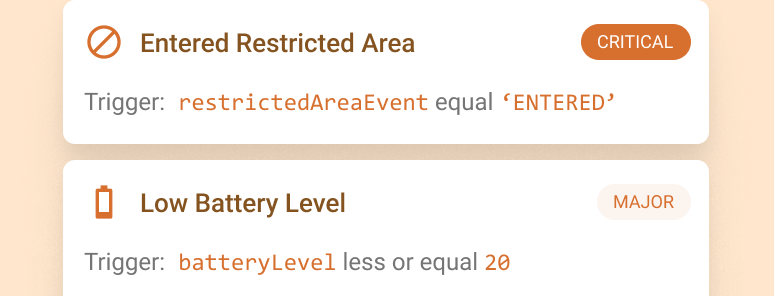
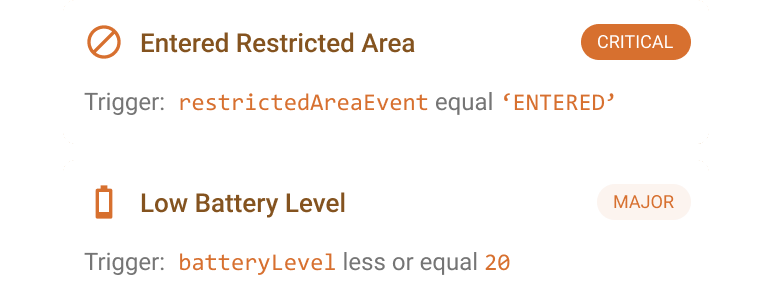
fix(iot-hub): minor bug fixes and SEO improvements (#478)
* fix(iot-hub): dark-theme issues on device detail page

- Preserve the install/connect CTA hover overlay in dark mode by using
  background-color instead of the background shorthand (the shorthand reset
  the button-primary background-image hover gradient).
- Make the alarm-rules category image background transparent so it renders
  correctly on the dark theme.

* feat(iot-hub): category-aware Creator CTA + How to contribute link

- CreatorCTA takes a category prop and derives its title, description, and
  guide link from the category config (defaults to the generic copy on the
  hub landing).
- Devices category shows "Add your device" copy.
- Add a secondary outlined "How to contribute" button linking to the matching
  /docs/iot-hub/guides/ guide per category.
- Add guideHref to every IoT Hub category config.

* feat(iot-hub): per-page SEO titles, descriptions, and heading structure

- Category pages: heroTitle (H1 + <title>) distinct from tileLabel, per-category
  seoDescription for the meta description, category-aware Creator CTA copy.
- Detail pages: templated title/description per item type (Connect ... for
  devices, Install ... {type} for other components) with name-bearing fallbacks.
- Creator pages: SEO description enumerating the creator's component categories;
  'Verified creator profile' only when actually verified.
- Hero subtitle promoted to <h2> (visually unchanged) with a trailing
  'for IoT solutions' line; 'Most popular' demoted to a div.
[…]

Changed region(s): [[0.0, 0.0, 1.0, 1.0]]

diff --git a/src/models/iot-hub.ts b/src/models/iot-hub.ts
@@ -28,68 +28,97 @@ export const IOT_HUB_CATEGORIES = [
 	{
 		slug: 'devices',
 		itemType: 'DEVICE',
-		label: 'Devices',
+		label: 'IoT Devices',
+		singularLabel: 'Device',
 		tileLabel: 'Device Library',
+		heroTitle: 'IoT Device Library',
 		card: 'big',
 		tileColor: '#ccd5ff',
 		tileColorDark: '#4c63cc',
 		heroDescription:
 			'Explore the device library to find pre-configured connectivity templates you can deploy in minutes to connect your hardware instantly.',
+		seoDescription:
+			'Connect your hardware in one step. Install ready-made IoT device profiles for MQTT, Modbus, and OPC UA from the ThingsBoard IoT Hub.',
+		guideHref: '/docs/iot-hub/guides/device/',
+		ctaTitle: 'Add your device',
+		ctaDescription:
+			'Submit your devices to the ThingsBoard IoT Hub to showcase them to our global community and make it way easier for your clients.',
 	},
 	{
 		slug: 'solution-templates',
 		itemType: 'SOLUTION_TEMPLATE',
 		label: 'Solution Templates',
+		singularLabel: 'Solution Template',
 		tileLabel: 'Solution Templates',
+		heroTitle: 'IoT Solution Templates',
 		card: 'big',
 		tileColor: '#b8d9ff',
 		tileColorDark: '#2c6cb4',
 		heroDescription:
 			'Complete IoT solution packages with dashboards, rule chains, and device configurations. Get started with proven architectures.',
+		seoDescription:
+			'Start from a working solution. Install ready-made IoT solution templates for retail, fleet, energy, and SCADA from the ThingsBoard IoT Hub.',
+		guideHref: '/docs/iot-hub/guides/solution-template/',
 	},
 	{
 		slug: 'widgets',
 		itemType: 'WIDGET',
 		label: 'Widgets',
+		singularLabel: 'Widget',
 		tileLabel: 'Widgets',
 		card: 'big',
 		tileColor: '#a3ffc3',
 		tileColorDark: '#2c9755',
 		heroDescription:
 			'Jumpstart your IoT journey with pre-configured widgets designed for your industry. Deploy proven architectures instantly and focus your energy on what matters: your unique business logic.',
+		seoDescription:
+			'Build dashboards faster with ready-to-use IoT widgets. Install charts, gauges, maps, and control cards from the ThingsBoard IoT Hub.',
+		guideHref: '/docs/iot-hub/guides/widget/',
 	},
 	{
 		slug: 'calculated-fields',
 		itemType: 'CALCULATED_FIELD',
 		label: 'Calculated Fields',
+		singularLabel: 'Calculated Field',
 		tileLabel: 'Calculated Fields',
 		card: 'small',
 		tileColor: '#bdedff',
 		tileColorDark: '#3db5e0',
 		heroDescription:
 			'Use pre-configured Calculated Fields to automate complex metrics like fuel efficiency or power factor. Skip the manual logic and keep your dashboards clean and actionable.',
+		seoDescription:
+			'Compute metrics automatically. Install ready-made IoT calculated fields for fuel efficiency, power factor, aggregations, and geofencing from the ThingsBoard IoT Hub.',
+		guideHref: '/docs/iot-hub/guides/calculated-field/',
 	},
 	{
 		slug: 'alarm-rules',
 		itemType: 'ALARM_RULE',
 		label: 'Alarm Rules',
+		singularLabel: 'Alarm Rule',
 		tileLabel: 'Alarm Rules',
 		card: 'small',
 		tileColor: '#ffe6cc',
 		tileColorDark: '#d7702f',
 		heroDescription:
 			'Use pre-built Alarm Rule templates to detect critical conditions like low battery, threshold breaches, or devices going offline. Skip writing the rule logic and start reacting to incidents the moment they happen.',
+		seoDescription:
+			'Catch problems before they escalate. Install ready-made IoT alarm rules for low battery, threshold breaches, and offline devices from the ThingsBoard IoT Hub.',
+		guideHref: '/docs/iot-hub/guides/alarm-rule/',
 	},
 	{
 		slug: 'rule-chains',
 		itemType: 'RULE_CHAIN',
 		label: 'Rule Chains',
+		singularLabel: 'Rule Chain',
 		tileLabel: 'Rule Chains',
 		card: 'small',
 		tileColor: '#ecd1ff',
 		tileColorDark: '#bb7ce9',
 		heroDescription:
 			'From sophisticated data processing to seamless API integrations, Rule Chain templates provide the architectural foundation you need to scale without building from scratch.',
+		seoDescription:
+			'Automate your IoT data flows. Install ready-made IoT rule chains for data processing, transformations, and API integrations from the ThingsBoard IoT Hub.',
+		guideHref: '/docs/iot-hub/guides/rule-chain/',
 	},
 ] as const;
 
@@ -468,10 +497,10 @@ export const getCreatorHref = (creatorId: string): string =>
 // rule identical across every route that applies it.
 export const isNumericSlug = (slug: string): boolean => /^\d+$/.test(slug);
 
-// Display label for the website button — strip the protocol only (mirrors the
-// upstream `getWebsiteLabel()`), keeping any `www.` and trailing slash.
+// Display label for the website button — strip the protocol and any trailing
+// slash, keeping any `www.`.
 export const getWebsiteLabel = (website: string): string =>
-	website.replace(/^https?:\/\//, '');
+	website.replace(/^https?:\/\//, '').replace(/\/+$/, '');
 
 // First-letter initials (max 2) for the avatar fallback. Mirrors the inline
 // logic already in DetailMeta.astro.